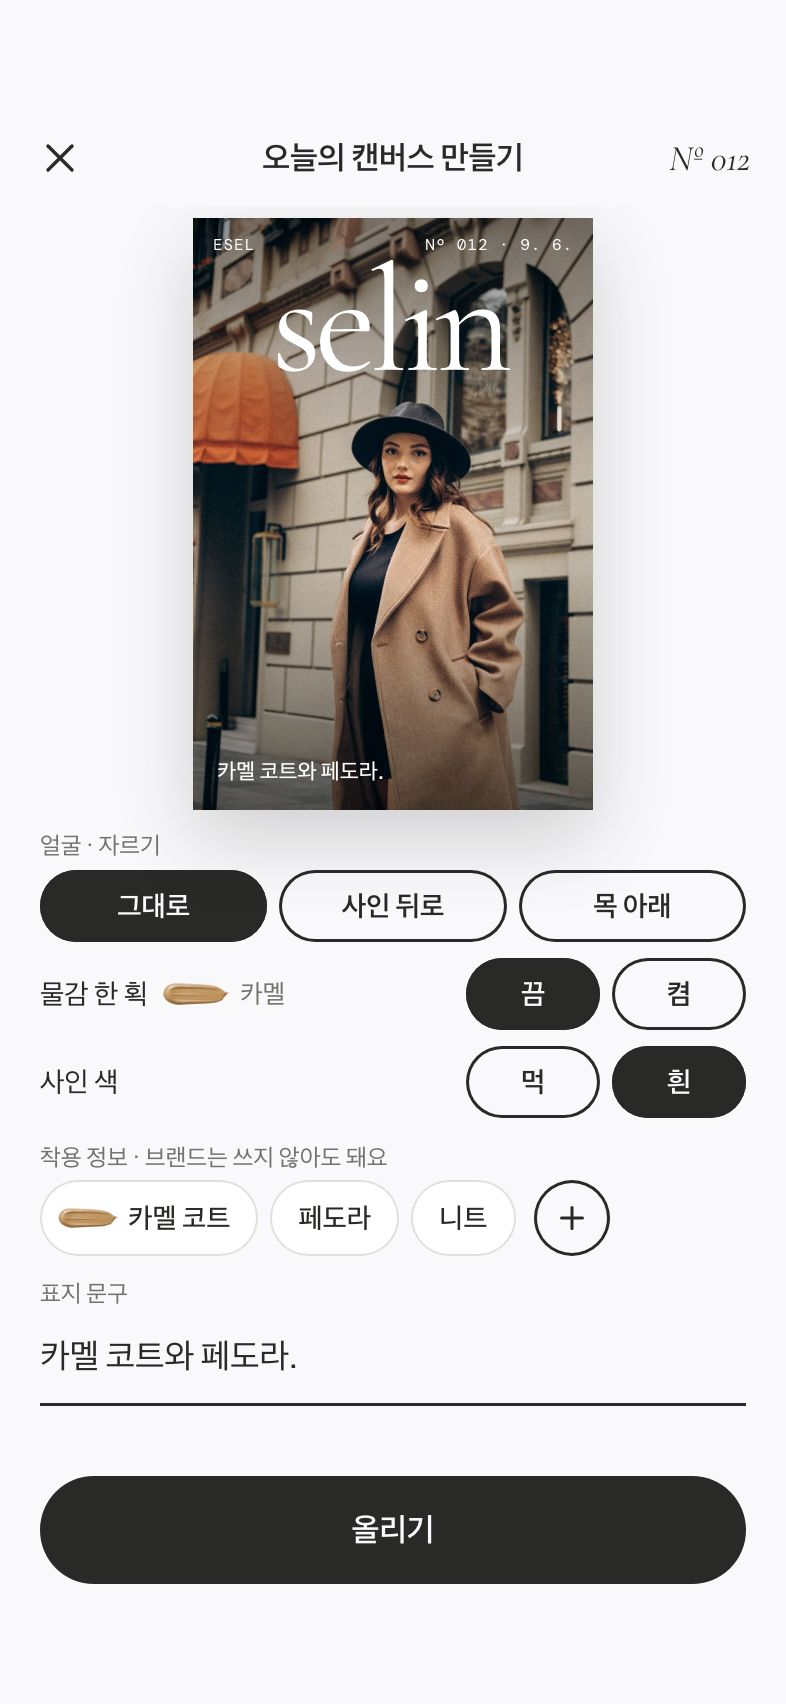
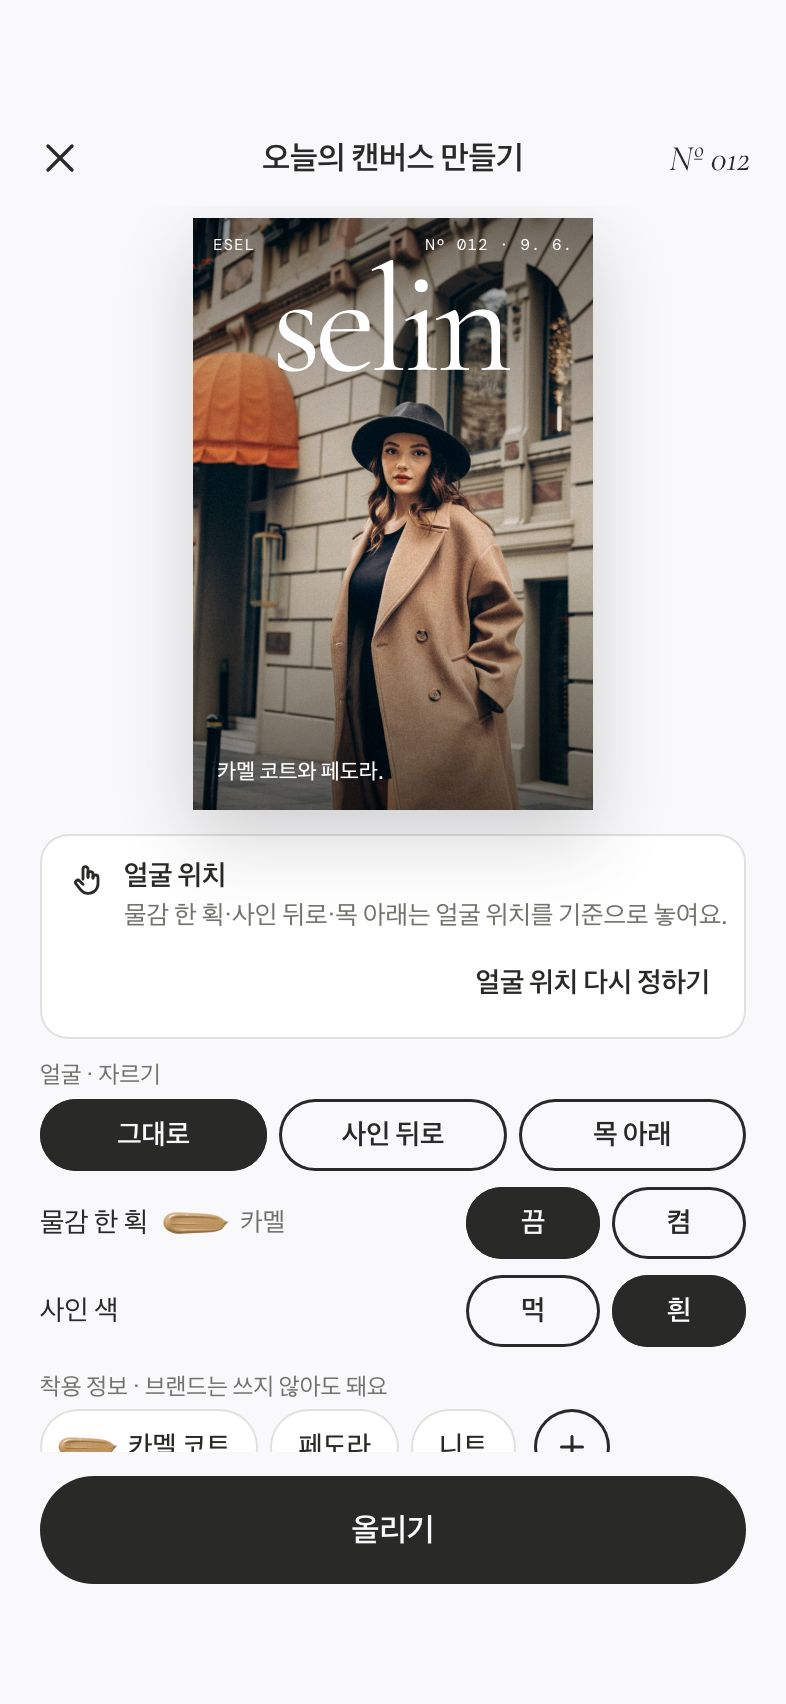
feat: 목업 만들기·첫 캔버스 얼굴 단계에 물감 위치 안내와 옮기기 반영
- 표지 아래 안내 칸(앱과 같은 문구), 버튼을 누르면 원본 사진과 '얼굴 가운데를 눌러 주세요'
- 사진을 누르면 그 자리로 물감(사인 뒤로면 자르기도)이 옮겨 감
- 새 화면 C6paint(물감 켬)·C6face(위치 옮기는 중), 안내가 들어간 J6·C6·C6neck·C6wear 캡처 갱신

Changed region(s): [[0.0305, 0.4665, 0.9466, 0.8709], [0.6718, 0.8087, 0.7634, 0.8398], [0.5802, 0.8398, 0.6107, 0.8709]]

diff --git a/.codex/temp/prototype/20261011-app-mockup/src/app.js b/.codex/temp/prototype/20261011-app-mockup/src/app.js
@@ -59,6 +59,7 @@ const PATHS = {
   grid: '<rect x="4.5" y="4.5" width="6" height="6" rx="1"/><rect x="13.5" y="4.5" width="6" height="6" rx="1"/><rect x="4.5" y="13.5" width="6" height="6" rx="1"/><rect x="13.5" y="13.5" width="6" height="6" rx="1"/>',
   pen: '<path d="M4.5 19.5l3.8-.9L19 7.9a1.9 1.9 0 0 0 0-2.7l-.2-.2a1.9 1.9 0 0 0-2.7 0L5.4 15.7z"/><path d="M14.5 6.5l3 3"/>',
   twin: '<circle cx="9.5" cy="12" r="5"/><circle cx="14.5" cy="12" r="5"/>',
+  touch: '<path d="M9 11.5V5.5a1.5 1.5 0 0 1 3 0v5"/><path d="M12 10V8.5a1.5 1.5 0 0 1 3 0V11"/><path d="M15 10.5a1.5 1.5 0 0 1 3 0v3.8a5.7 5.7 0 0 1-5.7 5.7h-.6a5 5 0 0 1-3.9-1.9l-2.9-3.6a1.4 1.4 0 0 1 2.1-1.9L9 14.5"/>',
   hanger: '<path d="M10 6.2a2 2 0 1 1 2.6 1.9c-.4.1-.6.5-.6.9v.8"/><path d="M12 9.8L3.8 15.6c-.6.4-.3 1.4.4 1.4h15.6c.7 0 1-.9.4-1.4z"/>',
 };
 const icon = (n, size = 24, sw = 1.7, fill = 'none') => `<svg width="${size}" height="${size}" viewBox="0 0 24 24" fill="${fill}" stroke="currentColor" stroke-width="${sw}" stroke-linecap="round" stroke-linejoin="round" aria-hidden="true">${PATHS[n]}</svg>`;
@@ -104,14 +105,18 @@ function strokeAt(color, f) {
   return `<img src="${paintSrc(color)}" alt="" style="left:${Math.round(f.fx - pw / 2)}px;top:${Math.round(f.fy - f.fwPx * 0.12 - pw / 4)}px;width:${pw}px;height:${Math.round(pw / 2)}px;transform:rotate(-10deg)">`;
 }
 // "Behind the sign": the face goes to height ty under the sign. Tall boxes need more zoom so the photo can still reach the top.
-function behindBox(k, W, H, zoom, ty) {
+function behindBox(k, W, H, zoom, ty, at) {
   const p = PEOPLE[k];
-  const z = Math.max(zoom, (H - ty) / (W * p.r * (1 - p.fy)));
-  return cropBox(k, W, H, z, p.fx, p.fy, W / 2, ty);
+  const fx = at?.x ?? p.fx;
+  const fy = at?.y ?? p.fy;
+  const z = Math.max(zoom, (H - ty) / (W * p.r * (1 - fy)));
+  const b = cropBox(k, W, H, z, fx, fy, W / 2, ty);
+  return at ? { ...b, fx: b.left + fx * b.dw, fy: b.top + fy * b.dh } : b;
 }
 const boxImg = (k, b, alt) => `<img src="${photoSrc(k)}" alt="${alt}" loading="lazy" style="left:${b.left}px;top:${b.top}px;width:${b.dw}px;height:${b.dh}px">`;
 // One photo in a W×H box with a face presentation: plain, paint (plain + stroke), behind (zoomed so the face sits where the sign is),
 // neck, detail, mono. `o.paint` adds the stroke to "behind" too: the stroke is a switch of its own (P15, 10-18).
+// `o.at` = the face centre I set myself (photo fractions); the stroke and the "behind" crop follow it.
 function face(k, W, H, style = 'plain', o = {}) {
   const p = PEOPLE[k];
   const px = o.px ?? 0.5;
@@ -121,12 +126,13 @@ function face(k, W, H, style = 'plain', o = {}) {
   let inner;
   if (style === 'neck') inner = boxImg(k, neckBox(k, W, H), `${alt}, 얼굴 아래로 자른 구도`);
   else if (style === 'behind') {
-    const b = behindBox(k, W, H, o.zoom ?? 1.7, o.tyPx ?? H * (o.ty ?? 0.2));
+    const b = behindBox(k, W, H, o.zoom ?? 1.7, o.tyPx ?? H * (o.ty ?? 0.2), o.at);
     inner = boxImg(k, b, alt) + (o.paint ? strokeAt(color, b) : '');
   } else if (style === 'detail') inner = boxImg(k, cropBox(k, W, H, 2.4, 0.55, 0.8, W / 2, H / 2), `${alt}의 디테일`);
   else {
     inner = `<img class="fit" src="${photoSrc(k)}" alt="${alt}" loading="lazy" style="object-position:${pct(px)} ${pct(py)}${style === 'mono' ? ';filter:grayscale(1) contrast(1.06)' : ''}">`;
-    if (style === 'paint') inner += strokeAt(color, fit(k, W, H, px, py));
+    const f = fit(k, W, H, px, py);
+    if (style === 'paint') inner += strokeAt(color, o.at ? { ...f, fx: o.at.x * f.dw - f.ox, fy: o.at.y * f.dh - f.oy } : f);
   }
   return `<span class="ph" style="width:${W}px;height:${H}px${o.radius ? `;border-radius:${o.radius}px` : ''}">${inner}</span>`;
 }
@@ -198,7 +204,7 @@ const OLDER = ['coral', 'sage', 'butter', 'cobalt', 'cream', 'powder', 'lilac', 
 function fresh() {
   return {
     auth: 'out',
-    me: { name: ME, bio: '옷으로 남기는 나의 계절.', issues: 11, color: 'camel', crop: 'plain', paint: false, mast: 'white', caption: PEOPLE[ME].cap, email: `${ME}@example.com`, minor: false, garments: MY_GARMENTS.map((g) => ({ ...g })) },
+    me: { name: ME, bio: '옷으로 남기는 나의 계절.', issues: 11, color: 'camel', crop: 'plain', paint: false, locate: false, at: null, mast: 'white', caption: PEOPLE[ME].cap, email: `${ME}@example.com`, minor: false, garments: MY_GARMENTS.map((g) => ({ ...g })) },
     published: false,
     justPublished: false,
     liked: new Set(),
@@ -218,7 +224,7 @@ function fresh() {
     requests: ['zuri'],
     twin: { step: 'none', with: 'dana', color: 'camel', vis: null, no: 3 },
     notif: { on: true, twin: true, likes: true, remind: true },
-    join: { color: 'camel', name: ME, crop: 'plain', paint: true },
+    join: { color: 'camel', name: ME, crop: 'plain', paint: true, locate: false, at: null },
     copied: false,
   };
 }
@@ -235,6 +241,28 @@ const sameCount = (c) => SAME_COUNT[c] + (S.published && c === S.me.color ? 1 : 
 // A face choice as one style for face(): a crop (plain · behind · neck) plus the paint switch, which neck turns off (P15).
 const lookStyle = (crop, paint) => (crop === 'plain' && paint && 'paint') || crop;
 const myLook = () => ({ style: lookStyle(S.me.crop, S.me.paint), paint: S.me.crop === 'behind' && S.me.paint, color: S.me.color });
+// Face position guide under the cover (PR #21 review): says what to press when the stroke sits off the face. While setting it the
+// cover shows the plain photo with a hint; a tap there becomes the face centre. In join the cancel is the bottom button instead.
+function faceGuide(st, key, { cancelHere = true } = {}) {
+  const neck = st.crop === 'neck';
+  const [title, sub, action] = st.locate
+    ? ['사진에서 얼굴 가운데를 눌러 주세요', '효과를 잠시 숨긴 원본이에요. 누른 자리를 기준으로 물감과 자르기가 다시 놓여요.', cancelHere ? '효과 미리보기로 돌아가기' : '']
+    : neck
+      ? ['목 아래 · 물감은 쓰지 않아요', '턱 아래로 잘라요. 자른 자리가 어긋나면 얼굴 위치를 다시 정해 주세요.', '얼굴 위치 다시 정하기']
+      : st.paint
+        ? ['물감 위치가 어긋났나요?', '버튼을 누르고 사진에서 얼굴 가운데를 누르면 물감이 그 자리로 옮겨 가요.', '물감 위치 옮기기']
+        : ['얼굴 위치', '물감 한 획·사인 뒤로·목 아래는 얼굴 위치를 기준으로 놓여요.', '얼굴 위치 다시 정하기'];
+  return `<div class="face-guide${st.locate ? ' on' : ''}" role="status">${icon('touch', 20)}<span class="fg-t"><b>${title}</b><span>${sub}</span></span>${action ? `<button type="button" class="fg-go" data-act="locate:${key}">${action}</button>` : ''}</div>`;
+}
+const coverHint = () => `<span class="cover-hint" aria-hidden="true">${icon('touch', 16)}얼굴 가운데를 눌러 주세요</span>`;
+// A tap on the plain photo (object-position 50% 50%) → photo fractions.
+function photoPoint(e, el, W, H) {
+  const r = el.getBoundingClientRect();
+  const f = fit(ME, W, H);
+  const cx = ((e.clientX - r.left) / r.width) * W;
+  const cy = ((e.clientY - r.top) / r.height) * H;
+  return { x: Math.max(0, Math.min(1, (cx + f.ox) / f.dw)), y: Math.max(0, Math.min(1, (cy + f.oy) / f.dh)) };
+}
 const lookOf = (k) => (k === ME ? myLook() : { style: FACE[k] || 'plain', paint: false, color: PEOPLE[k].color });
 const garmentsOf = (k) => (k === ME ? (S.published ? S.me.garments : []) : GARMENTS[k] || []);
 function linesFor(k) {
@@ -915,14 +943,15 @@ SCREENS.make = () => {
 <div class="top-gap"></div>
 <header class="hd" style="position:relative;padding-right:18px">${backBtn('닫기', 'x')}<h1 style="position:absolute;left:0;right:0;margin:0;text-align:center;font-size:16px;font-weight:600;pointer-events:none">오늘의 캔버스 만들기</h1><span class="serif it" style="font-size:18px"><span class="roll" id="roll"><span><span>Nº ${pad3(m.issues + 1)}</span><span>올렸어요</span></span></span></span></header>
 <div class="scroll" id="scroller"><div style="display:flex;flex-direction:column;align-items:center;padding:6px 20px 20px">
-<div id="mk-cover" style="position:relative;width:${W}px;height:${H}px;flex-shrink:0;overflow:hidden;background:var(--photo);color:${m.mast === 'white' ? WHITE : INK};box-shadow:0 14px 36px rgba(41,42,39,.2)">
-${face(ME, W, H, look.style, { zoom: 1.9, ty: 0.21, color: m.color, paint: look.paint })}
+<div id="mk-cover"${m.locate ? ` data-act="faceat:me:${W}:${H}" aria-label="얼굴 가운데 누르기"` : ''} style="position:relative;width:${W}px;height:${H}px;flex-shrink:0;overflow:hidden;background:var(--photo);color:${m.mast === 'white' ? WHITE : INK};box-shadow:0 14px 36px rgba(41,42,39,.2)${m.locate ? ';cursor:crosshair' : ''}">
+${m.locate ? face(ME, W, H, 'plain') + coverHint() : face(ME, W, H, look.style, { zoom: 1.9, ty: 0.21, color: m.color, paint: look.paint, at: m.at })}
 <span class="shade" style="top:0;height:45%;background:linear-gradient(rgba(0,0,0,.4),rgba(0,0,0,0))"></span>
-<span class="mono" aria-hidden="true" style="position:absolute;left:10px;right:10px;top:8px;display:flex;justify-content:space-between;font-size:8px;letter-spacing:.06em"><span>ESEL</span><span>Nº ${pad3(m.issues + 1)} · 9. 6.</span></span>
-<span class="serif" aria-hidden="true" style="position:absolute;left:0;right:0;top:18px;text-align:center;font-size:${mastSize(m.name, W, 128)}px;line-height:.9;letter-spacing:-.05em;padding-right:5px;white-space:nowrap">${esc(m.name)}</span>
+${m.locate ? '' : `<span class="mono" aria-hidden="true" style="position:absolute;left:10px;right:10px;top:8px;display:flex;justify-content:space-between;font-size:8px;letter-spacing:.06em"><span>ESEL</span><span>Nº ${pad3(m.issues + 1)} · 9. 6.</span></span>
+<span class="serif" aria-hidden="true" style="position:absolute;left:0;right:0;top:18px;text-align:center;font-size:${mastSize(m.name, W, 128)}px;line-height:.9;letter-spacing:-.05em;padding-right:5px;white-space:nowrap">${esc(m.name)}</span>`}
 <span class="shade" style="bottom:0;height:40%;background:linear-gradient(rgba(0,0,0,0),rgba(0,0,0,.5))"></span>
-<span style="position:absolute;left:12px;right:12px;bottom:12px;color:${WHITE};font-size:11px;font-weight:500">${esc(m.caption)}</span>
+${m.locate ? '' : `<span style="position:absolute;left:12px;right:12px;bottom:12px;color:${WHITE};font-size:11px;font-weight:500">${esc(m.caption)}</span>`}
 </div>
+${faceGuide(m, 'me')}
 <div class="mk-controls">
 <span class="lbl">얼굴 · 자르기</span>
 <div class="seg" role="group" aria-label="자르기">${SEG(CROPS, m.crop, 'crop')}</div>
@@ -1378,16 +1407,17 @@ SCREENS['join-face'] = () => {
 <div class="scroll" id="scroller"><div class="pad" style="padding-bottom:20px">
 <h1 class="serif" style="margin:20px 0 0;font-size:30px;font-weight:400;line-height:1.2">얼굴은 어떻게 할까요?</h1>
 <p style="margin:6px 0 0;font-size:14px;color:var(--sub)">올릴 때마다 바꿀 수 있어요. 가려도 똑같이 멋져요.</p>
-<div style="position:relative;width:${W}px;height:${H}px;margin:20px auto 0;overflow:hidden;background:var(--photo);color:${WHITE};box-shadow:0 14px 36px rgba(41,42,39,.2)">
-${face(ME, W, H, lookStyle(j.crop, j.paint && !neck), { zoom: 1.9, ty: 0.21, color: j.color, paint: j.crop === 'behind' && j.paint })}
+<div${j.locate ? ` data-act="faceat:join:${W}:${H}" aria-label="얼굴 가운데 누르기"` : ''} style="position:relative;width:${W}px;height:${H}px;margin:20px auto 0;overflow:hidden;background:var(--photo);color:${WHITE};box-shadow:0 14px 36px rgba(41,42,39,.2)${j.locate ? ';cursor:crosshair' : ''}">
+${j.locate ? face(ME, W, H, 'plain') + coverHint() : face(ME, W, H, lookStyle(j.crop, j.paint && !neck), { zoom: 1.9, ty: 0.21, color: j.color, paint: j.crop === 'behind' && j.paint, at: j.at })}
 <span class="shade" style="top:0;height:45%;background:linear-gradient(rgba(0,0,0,.4),rgba(0,0,0,0))"></span>
-<span class="serif" aria-hidden="true" style="position:absolute;left:0;right:0;top:14px;text-align:center;font-size:${mastSize(j.name, W, 110)}px;line-height:.9;letter-spacing:-.05em;padding-right:4px;white-space:nowrap">${esc(j.name)}</span>
+${j.locate ? '' : `<span class="serif" aria-hidden="true" style="position:absolute;left:0;right:0;top:14px;text-align:center;font-size:${mastSize(j.name, W, 110)}px;line-height:.9;letter-spacing:-.05em;padding-right:4px;white-space:nowrap">${esc(j.name)}</span>`}
 </div>
+${faceGuide(j, 'join', { cancelHere: false })}
 <div class="crop-cards" role="group" aria-label="자르기" style="margin-top:18px">${cards.map(([k, t, s]) => `<button type="button" data-act="joincrop:${k}" aria-pressed="${j.crop === k}"><b>${t}</b><span>${s}</span></button>`).join('')}</div>
 <div class="paint-card" style="margin-top:8px;opacity:${neck ? 0.38 : 1}">${paintImg(j.color, 52)}<span style="display:flex;flex-direction:column;gap:2px"><span style="font-size:15px;font-weight:600">물감 한 획</span><span style="font-size:12px;color:var(--sub)">오늘의 색으로 눈을 가려요</span></span><div class="seg" role="group" aria-label="물감 한 획" style="margin-left:auto;width:116px">${SEG([['off', '끔'], ['on', '켬']], j.paint && !neck ? 'on' : 'off', 'joinpaint', { disabled: neck })}</div></div>
 ${neck ? '<p class="lbl" style="margin:8px 0 0;line-height:18px">목 아래는 얼굴이 없어 물감을 쓰지 않아요.</p>' : ''}
 </div></div>
-<div class="bottom-bar"><button type="button" class="btn" data-go="join-done">첫 캔버스 올리기</button></div></div>`,
+<div class="bottom-bar">${j.locate ? '<button type="button" class="btn line" data-act="locate:join">위치 조정 취소</button>' : '<button type="button" class="btn" data-go="join-done">첫 캔버스 올리기</button>'}</div></div>`,
   };
 };
 SCREENS['join-done'] = () => {
@@ -1597,8 +1627,8 @@ const ACT = {
   },
   'wear-all': () => $('#wear')?.scrollIntoView({ block: 'start', behavior: calm() ? 'auto' : 'smooth' }),
   // Make: one crop, the paint switch (off and disabled with neck down, not restored afterwards), sign color (P15).
-  crop: (k) => { S.me.crop = k; if (k === 'neck') S.me.paint = false; render({ keepScroll: true }); },
-  paint: (v) => { if (S.me.crop === 'neck') return; S.me.paint = v === 'on'; render({ keepScroll: true }); },
+  crop: (k) => { S.me.crop = k; S.me.locate = false; if (k === 'neck') S.me.paint = false; render({ keepScroll: true }); },
+  paint: (v) => { if (S.me.crop === 'neck') return; S.me.locate = false; S.me.paint = v === 'on'; render({ keepScroll: true }); },
   mast: (k) => { S.me.mast = k; render({ keepScroll: true }); },
   'wear-add': () => openGarment(null),
   'wear-edit': (i) => openGarment(+i),
@@ -1703,8 +1733,11 @@ const ACT = {
   shutter: () => go('join-name'),
   album: () => { toast('목업에서는 예시 사진으로 이어가요'); go('join-name'); },
   flip: () => toast('목업에서는 카메라를 쓰지 않아요'),
-  joincrop: (k) => { S.join.crop = k; if (k === 'neck') S.join.paint = false; render({ keepScroll: true }); },
-  joinpaint: (v) => { if (S.join.crop === 'neck') return; S.join.paint = v === 'on'; render({ keepScroll: true }); },
+  joincrop: (k) => { S.join.crop = k; S.join.locate = false; if (k === 'neck') S.join.paint = false; render({ keepScroll: true }); },
+  // Face position (PR #21 review): the guide button starts or ends setting it; a tap on the plain photo sets it.
+  locate: (key) => { const st = key === 'join' ? S.join : S.me; st.locate = !st.locate; render({ keepScroll: true }); },
+  faceat: (key, w, h, el, e) => { const st = key === 'join' ? S.join : S.me; if (!st.locate || !e) return; st.at = photoPoint(e, el, +w, +h); st.locate = false; render({ keepScroll: true }); },
+  joinpaint: (v) => { if (S.join.crop === 'neck') return; S.join.locate = false; S.join.paint = v === 'on'; render({ keepScroll: true }); },
   found: (where) => {
     const j = S.join;
     S.auth = 'in';
@@ -1729,7 +1762,7 @@ document.addEventListener('click', (e) => {
     return;
   }
   const [name, ...args] = t.dataset.act.split(':');
-  ACT[name]?.(...args, t);
+  ACT[name]?.(...args, t, e);
 });
 document.addEventListener('input', (e) => {
   const key = e.target.dataset?.in;

diff --git a/.codex/temp/prototype/20261011-app-mockup/src/shell.html b/.codex/temp/prototype/20261011-app-mockup/src/shell.html
@@ -141,6 +141,15 @@ body.phone #device { border-radius: 0; box-shadow: none; --st: 8px; --sb: 14px; 
 .crop-cards button span { font-size: 12px; opacity: 0.8; white-space: nowrap; }
 .crop-cards button[aria-pressed="true"] { background: var(--ink); color: var(--paper); }
 .paint-card { height: 64px; box-sizing: border-box; padding: 0 6px 0 8px; border-radius: 16px; display: flex; align-items: center; gap: 6px; box-shadow: inset 0 0 0 1px var(--hair); }
+/* Face position guide under the cover and the hint on the photo while setting it (PR #21 review) */
+.face-guide { align-self: stretch; margin-top: 12px; padding: 12px 8px 4px 14px; border-radius: 14px; background: var(--white); box-shadow: inset 0 0 0 1px var(--hair); display: grid; grid-template-columns: 20px 1fr; column-gap: 8px; text-align: left; }
+.face-guide.on { box-shadow: inset 0 0 0 1px var(--ink); padding-bottom: 12px; }
+.face-guide > svg { margin-top: 1px; }
+.face-guide .fg-t { display: flex; flex-direction: column; gap: 2px; }
+.face-guide .fg-t b { font-size: 14px; font-weight: 600; }
+.face-guide .fg-t span { font-size: 13px; line-height: 1.45; color: var(--muted); }
+.face-guide .fg-go { grid-column: 1 / -1; justify-self: end; min-height: 48px; padding: 0 10px; font-size: 14px; font-weight: 600; color: var(--ink); }
+.cover-hint { position: absolute; left: 50%; bottom: 12px; transform: translateX(-50%); display: flex; align-items: center; gap: 6px; padding: 7px 12px; border-radius: 999px; background: rgba(0,0,0,.7); color: #fff; font-size: 12.5px; white-space: nowrap; pointer-events: none; }
 .mk-controls { align-self: stretch; margin-top: 10px; display: flex; flex-direction: column; }
 .mk-row { height: 44px; display: flex; align-items: center; gap: 2px; }
 .mk-row .seg { margin-left: auto; width: 140px; }
